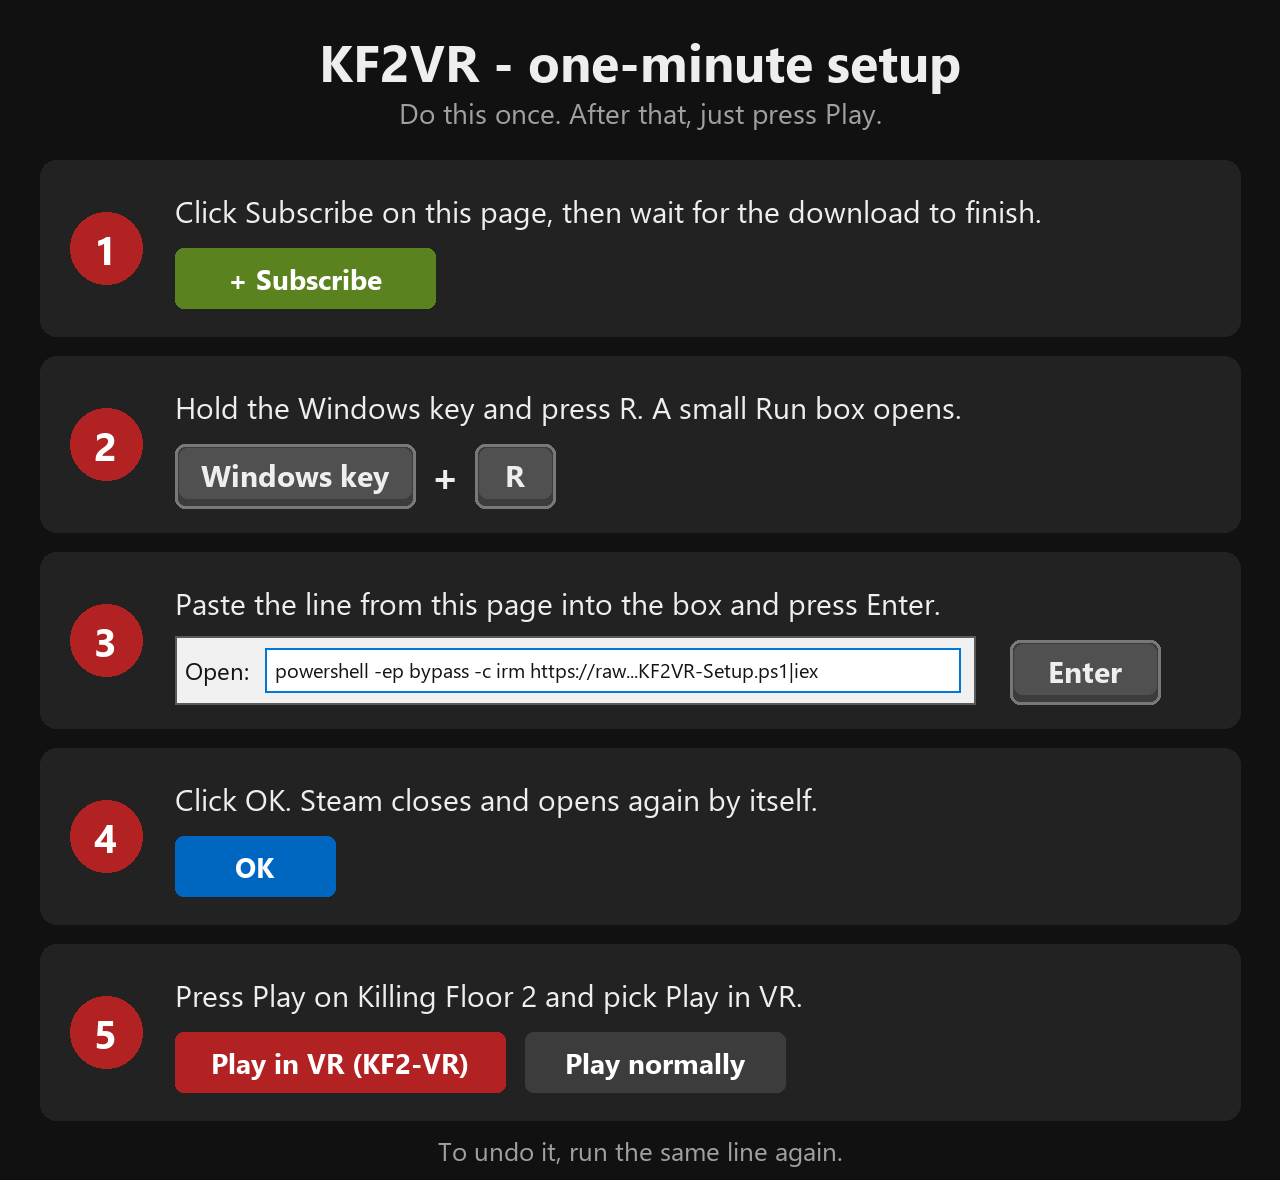
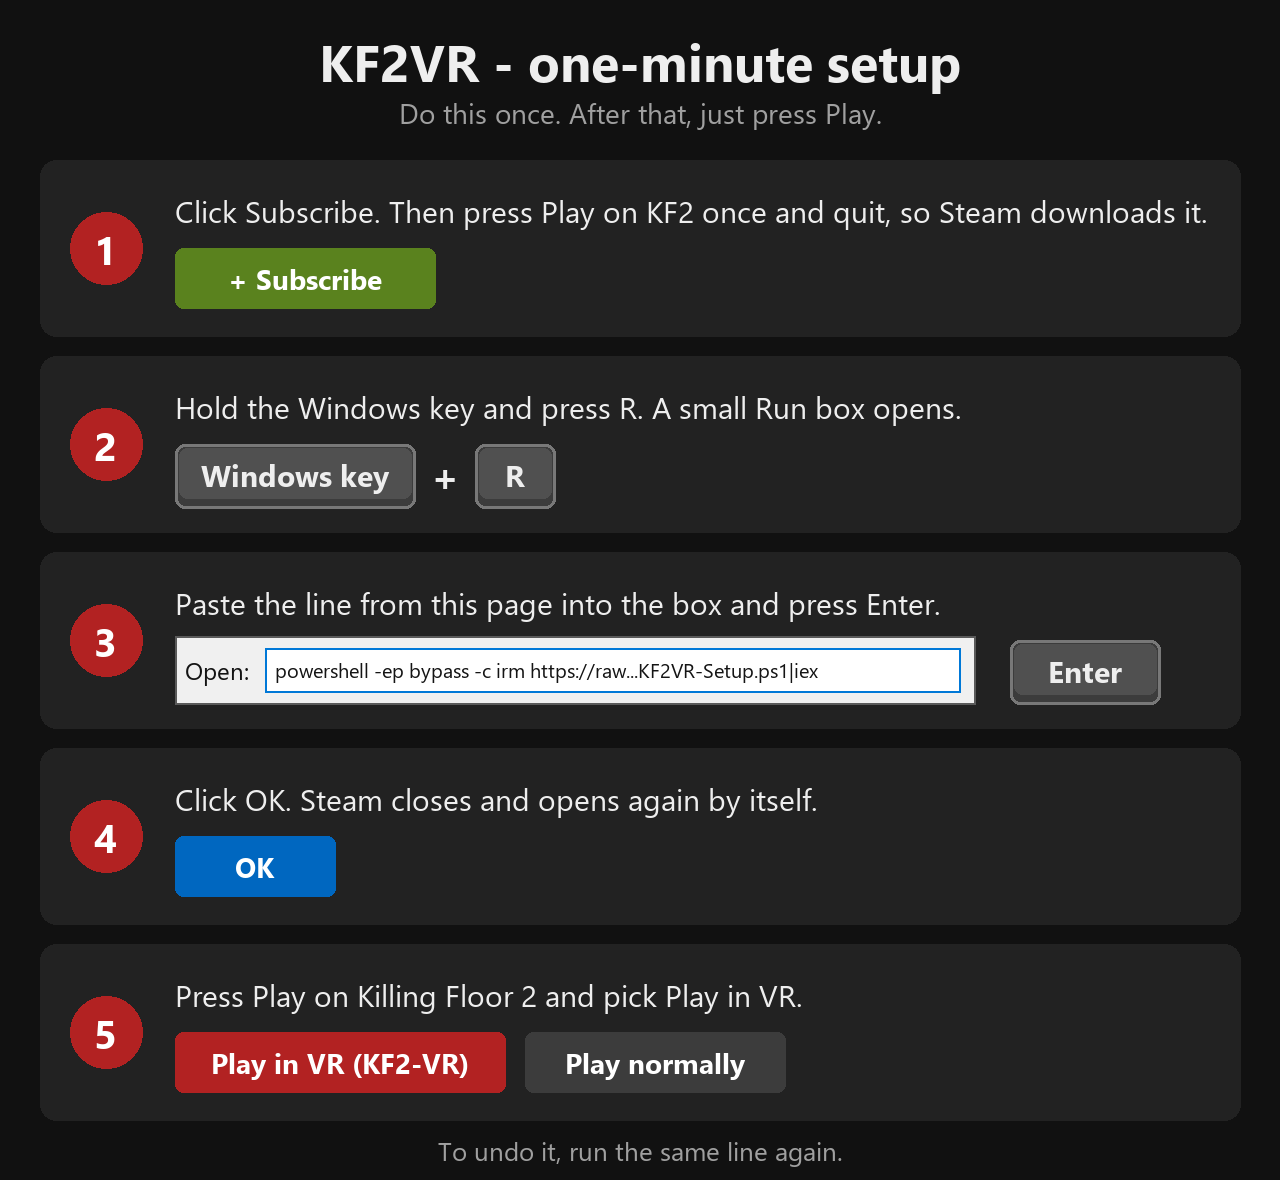
Workshop setup: tell players to press Play once so Steam downloads the item

Changed region(s): [[0.3125, 0.1525, 0.9375, 0.2136]]

diff --git a/tools/workshop/make_setup_guide.py b/tools/workshop/make_setup_guide.py
@@ -31,7 +31,7 @@ def main():
     draw.text((W / 2, 60), "KF2VR - one-minute setup", fill=TEXT, font=font(52, True), anchor="mm")
     draw.text((W / 2, 112), "Do this once. After that, just press Play.", fill=DIM, font=font(28), anchor="mm")
     top, step_h = 160, 196
-    steps = ["Click Subscribe on this page, then wait for the download to finish.",
+    steps = ["Click Subscribe. Then press Play on KF2 once and quit, so Steam downloads it.",
              "Hold the Windows key and press R. A small Run box opens.",
              "Paste the line from this page into the box and press Enter.",
              "Click OK. Steam closes and opens again by itself.",
